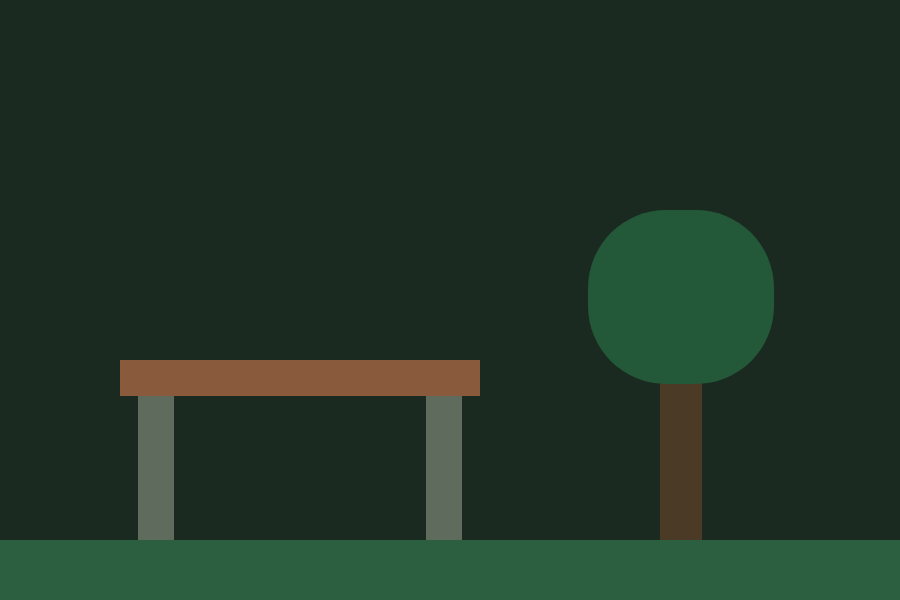
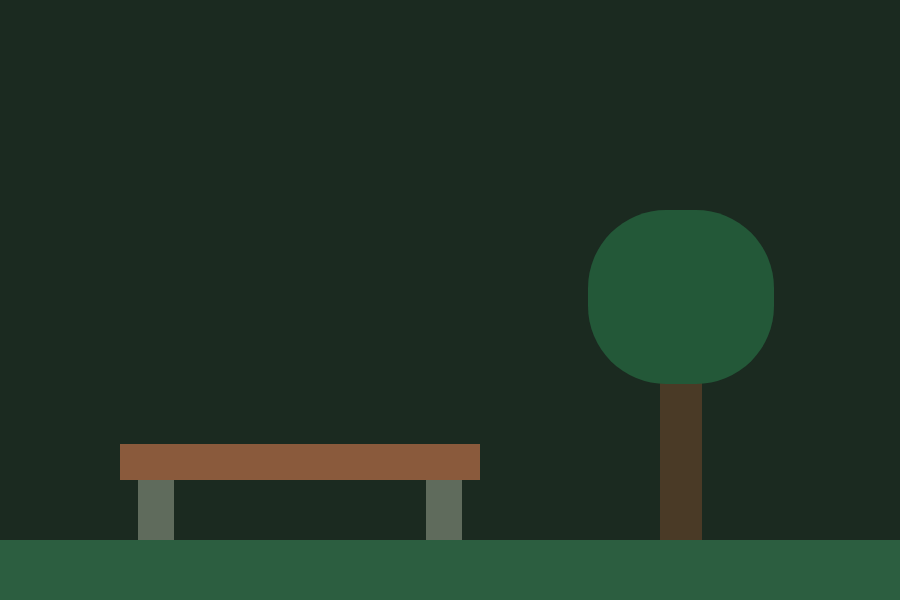
fix: replace the cat and bycicle competition section and improve the ice crea, windmill, bench and baloon ride

Changed region(s): [[0.1244, 0.6, 0.56, 0.81]]

diff --git a/frontend/src/app/(app)/cs-comp/_components/BattlePanel.tsx b/frontend/src/app/(app)/cs-comp/_components/BattlePanel.tsx
@@ -80,10 +80,20 @@ export default function BattlePanel({
     null,
   );
 
+  // The debounce is there to stop an iframe reload per keystroke, and a part
+  // switch is not typing: it swapped the whole scene at once, so waiting the
+  // full delay just leaves the previous part's render on screen. Flush
+  // immediately when the challenge changes, debounce only within one.
+  const previewFor = useRef(challenge.id);
   useEffect(() => {
+    if (previewFor.current !== challenge.id) {
+      previewFor.current = challenge.id;
+      setPreviewCode(code);
+      return;
+    }
     const t = setTimeout(() => setPreviewCode(code), PREVIEW_DEBOUNCE_MS);
     return () => clearTimeout(t);
-  }, [code]);
+  }, [code, challenge.id]);
 
   // The target is the exact PNG the server diffs against, fetched rather
   // than rebuilt locally — a target drawn from a second copy of the scene

diff --git a/backend/cmd/seedcscomp/levels.go b/backend/cmd/seedcscomp/levels.go
@@ -92,9 +92,9 @@ var levels = []level{
 		}},
 		{title: "Bench and tree", rects: []rect{
 			{0, 180, 300, 20, "#2c5e40", "", ""},
-			{40, 120, 120, 12, "#8a5a3c", "", ""},
-			{46, 132, 12, 48, "#5f6b5c", "", ""},
-			{142, 132, 12, 48, "#5f6b5c", "", ""},
+			{40, 148, 120, 12, "#8a5a3c", "", ""},
+			{46, 160, 12, 20, "#5f6b5c", "", ""},
+			{142, 160, 12, 20, "#5f6b5c", "", ""},
 			{220, 120, 14, 60, "#4a3a26", "", ""},
 			{196, 70, 62, 58, "#235838", "26px", ""},
 		}},
@@ -117,23 +117,22 @@ var levels = []level{
 			{0, 152, 300, 4, "rgba(233,245,205,.35)", "", ""},
 		}},
 		{title: "Ice cream", rects: []rect{
-			{104, 178, 92, 10, "#9aa196", "5px", ""},
-			{130, 120, 40, 60, "#c98a4b", "", "clip-path:polygon(0 0,100% 0,50% 100%)"},
-			{128, 90, 44, 44, "#ff7b54", "22px", ""},
-			{136, 66, 28, 28, "#e9f5cd", "14px", ""},
-			{144, 52, 12, 12, "#c1121f", "6px", ""},
-			{150, 44, 3, 10, "#3f8f57", "", ""},
-			{132, 112, 36, 8, "rgba(0,0,0,.18)", "4px", ""},
+			{100, 176, 100, 12, "#9aa196", "6px", ""},
+			{127, 118, 46, 66, "#c98a4b", "", "clip-path:polygon(0 0,100% 0,50% 100%)"},
+			{122, 84, 56, 56, "#ff7b54", "28px", ""},
+			{133, 60, 34, 34, "#e9f5cd", "17px", ""},
+			{143, 50, 14, 14, "#c1121f", "7px", ""},
+			{149, 42, 3, 10, "#3f8f57", "", ""},
 		}},
 		{title: "Windmill", rects: []rect{
 			{0, 168, 300, 32, "#2c5e40", "", ""},
-			{136, 90, 28, 80, "#e9f5cd", "4px 4px 0 0", ""},
-			{142, 110, 16, 20, "#4a3a26", "2px", ""},
-			{148, 44, 4, 46, "#5a4632", "", "transform-origin:50% 100%"},
-			{148, 44, 4, 46, "#5a4632", "", "transform:rotate(90deg);transform-origin:50% 100%"},
-			{148, 44, 4, 46, "#5a4632", "", "transform:rotate(45deg);transform-origin:50% 100%"},
-			{148, 44, 4, 46, "#5a4632", "", "transform:rotate(-45deg);transform-origin:50% 100%"},
-			{144, 84, 12, 12, "#0b1310", "6px", ""},
+			{136, 52, 28, 118, "#e9f5cd", "4px 4px 0 0", ""},
+			{142, 126, 16, 20, "#4a3a26", "2px", ""},
+			{147, 24, 6, 96, "#5a4632", "", "transform:rotate(22.5deg)"},
+			{147, 24, 6, 96, "#5a4632", "", "transform:rotate(67.5deg)"},
+			{147, 24, 6, 96, "#5a4632", "", "transform:rotate(112.5deg)"},
+			{147, 24, 6, 96, "#5a4632", "", "transform:rotate(157.5deg)"},
+			{144, 66, 12, 12, "#0b1310", "6px", ""},
 		}},
 		{title: "Letter home", rects: []rect{
 			{70, 70, 160, 100, "#e9f5cd", "4px", ""},
@@ -146,38 +145,43 @@ var levels = []level{
 		}},
 		{title: "Balloon ride", rects: []rect{
 			{0, 170, 300, 30, "#2c5e40", "", ""},
-			{40, 58, 54, 16, "#e9f5cd", "8px", ""},
 			{118, 40, 64, 76, "#ff7b54", "50% 50% 45% 45%", ""},
 			{146, 40, 8, 76, "#ffd166", "", ""},
+			{136, 110, 3, 15, "#5a4632", "", "transform:rotate(-18deg)"},
+			{161, 110, 3, 15, "#5a4632", "", "transform:rotate(18deg)"},
 			{138, 124, 24, 18, "#8a5a3c", "3px", ""},
-			{128, 114, 3, 12, "#5a4632", "", "transform:rotate(18deg)"},
-			{169, 114, 3, 12, "#5a4632", "", "transform:rotate(-18deg)"},
+			{40, 58, 54, 16, "#e9f5cd", "8px", ""},
+			{204, 96, 42, 12, "#e9f5cd", "6px", ""},
 		}},
 	}},
 	{n: 4, name: "SCUNTS", bg: "#0f1512", parts: []part{
-		{title: "Bicycle", rects: []rect{
+		{title: "Boombox", rects: []rect{
 			{0, 176, 300, 24, "#1d3a2f", "", ""},
-			{40, 110, 60, 60, "", "30px", "border:6px solid #e9f5cd"},
-			{200, 110, 60, 60, "", "30px", "border:6px solid #e9f5cd"},
-			{76, 136, 150, 5, "#6ee787", "", ""},
-			{92, 100, 4, 42, "#6ee787", "", "transform:rotate(18deg)"},
-			{150, 100, 4, 42, "#6ee787", "", "transform:rotate(-14deg)"},
-			{112, 96, 34, 5, "#6ee787", "", "transform:rotate(-10deg)"},
-			{104, 88, 26, 7, "#e9f5cd", "3px", ""},
-			{196, 92, 20, 5, "#e9f5cd", "2px", ""},
-			{204, 96, 4, 20, "#9aa196", "", ""},
+			{58, 88, 184, 88, "#9aa196", "8px", ""},
+			{212, 46, 4, 44, "#9aa196", "2px", "transform:rotate(25deg)"},
+			{126, 70, 48, 10, "#7d857a", "5px", ""},
+			{130, 76, 6, 16, "#7d857a", "", ""},
+			{164, 76, 6, 16, "#7d857a", "", ""},
+			{78, 104, 52, 52, "#7d857a", "26px", ""},
+			{90, 116, 28, 28, "#0b1310", "14px", ""},
+			{170, 104, 52, 52, "#7d857a", "26px", ""},
+			{182, 116, 28, 28, "#0b1310", "14px", ""},
+			{136, 100, 28, 34, "#4cc9f0", "3px", ""},
+			{136, 142, 10, 10, "#ffd166", "5px", ""},
+			{154, 142, 10, 10, "#ff7b54", "5px", ""},
 		}},
-		{title: "Cat", rects: []rect{
+		{title: "Trophy", rects: []rect{
 			{0, 176, 300, 24, "#1d3a2f", "", ""},
-			{96, 44, 34, 34, "#9aa196", "", "clip-path:polygon(0 100%,100% 100%,25% 0)"},
-			{170, 44, 34, 34, "#9aa196", "", "clip-path:polygon(0 100%,100% 100%,75% 0)"},
-			{100, 60, 100, 90, "#9aa196", "50% 50% 46% 46%", ""},
-			{124, 94, 14, 20, "#0b1310", "7px", ""},
-			{162, 94, 14, 20, "#0b1310", "7px", ""},
-			{143, 120, 14, 10, "#ff7b54", "50%", ""},
-			{60, 122, 40, 3, "#e9f5cd", "", ""},
-			{200, 122, 40, 3, "#e9f5cd", "", ""},
-			{130, 132, 40, 4, "#0b1310", "2px", ""},
+			{112, 62, 76, 58, "#ffd166", "6px 6px 40px 40px", ""},
+			{112, 62, 76, 8, "#e9f5cd", "6px 6px 0 0", ""},
+			{90, 72, 28, 30, "", "15px", "border:6px solid #ffd166"},
+			{170, 72, 28, 30, "", "15px", "border:6px solid #ffd166"},
+			{124, 78, 8, 26, "rgba(233,245,205,.45)", "4px", ""},
+			{142, 82, 16, 16, "#ff7b54", "2px", "transform:rotate(45deg)"},
+			{140, 114, 20, 36, "#ffd166", "", ""},
+			{122, 150, 56, 12, "#9aa196", "2px", ""},
+			{110, 162, 80, 14, "#7d857a", "3px", ""},
+			{134, 166, 32, 8, "#0b1310", "2px", ""},
 		}},
 		{title: "Arcade cabinet", rects: []rect{
 			{96, 180, 108, 8, "rgba(0,0,0,.45)", "", ""},
